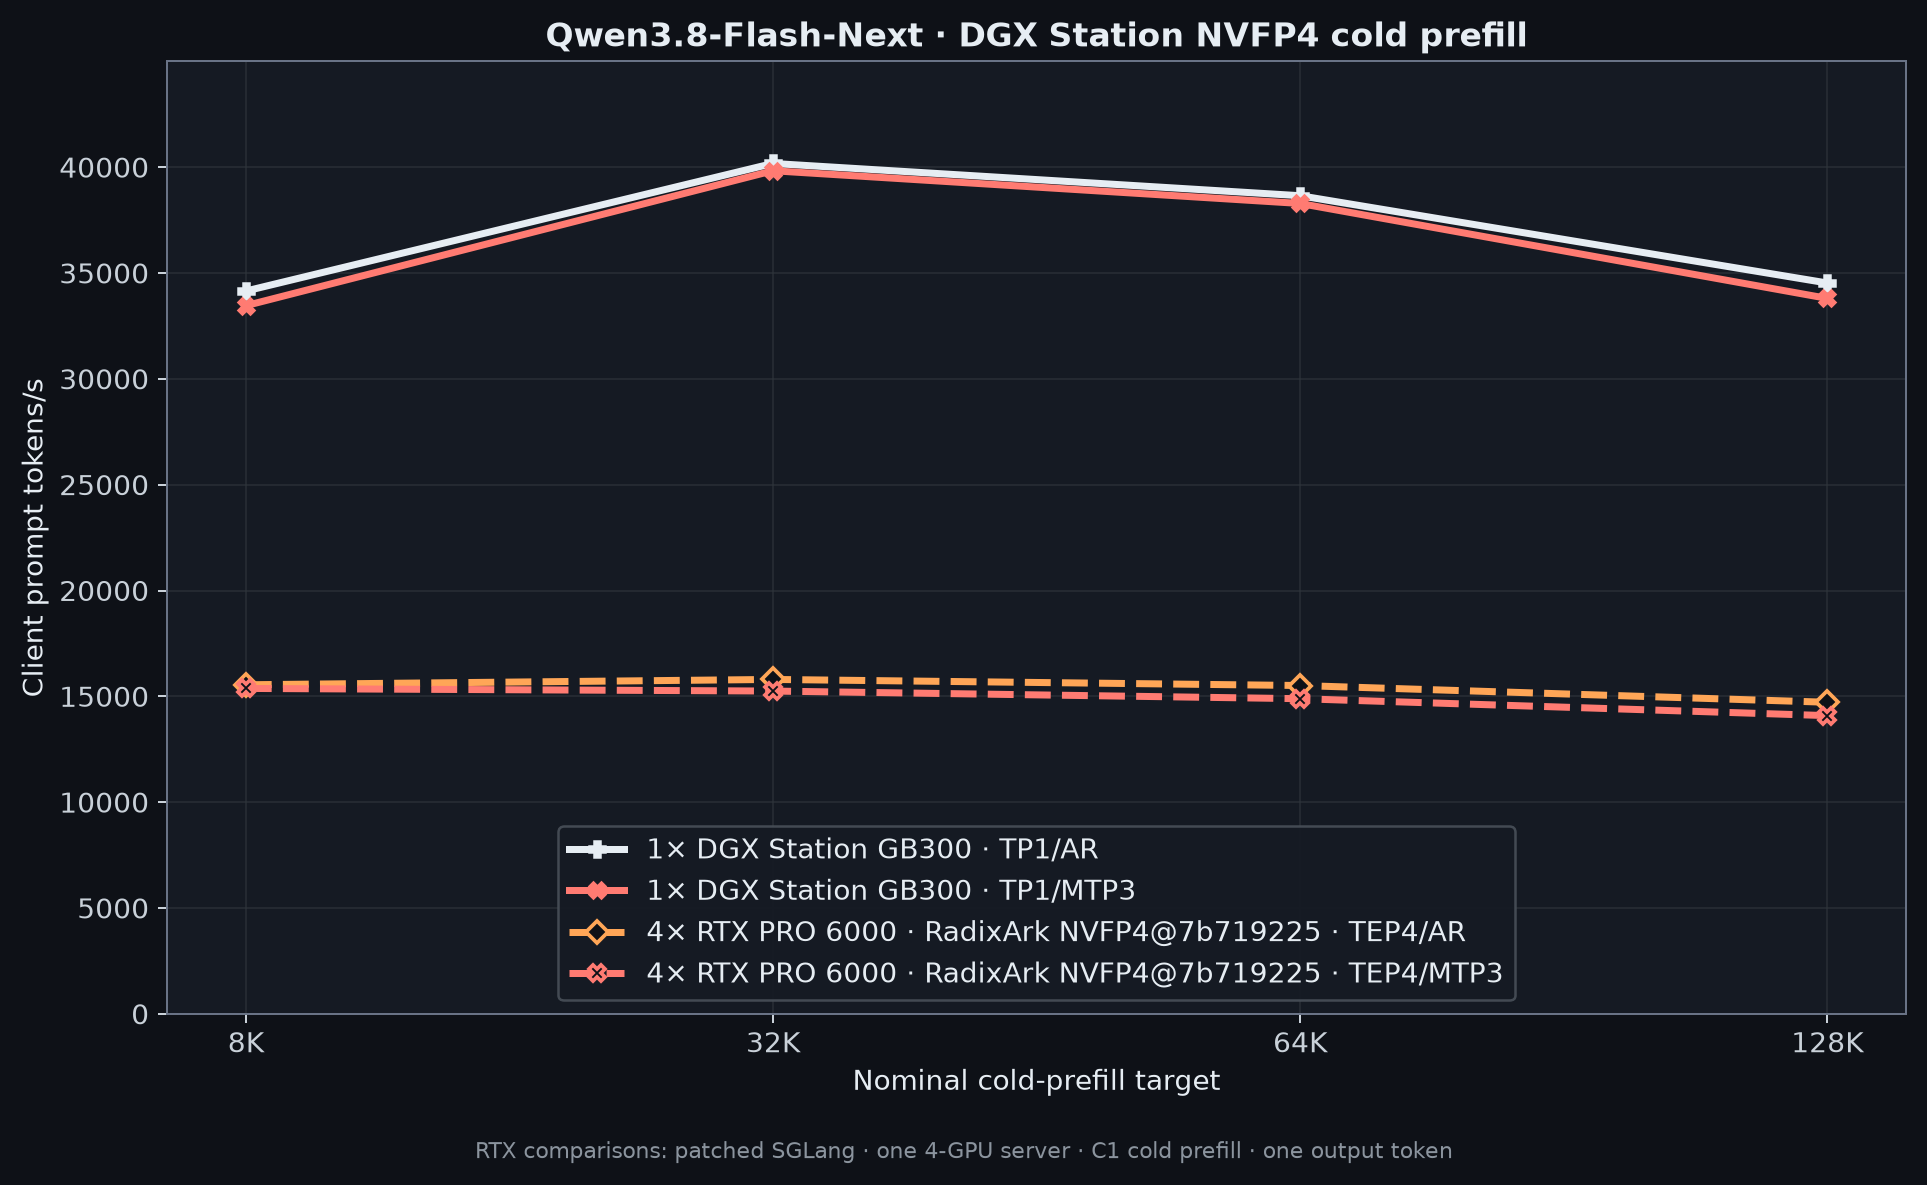
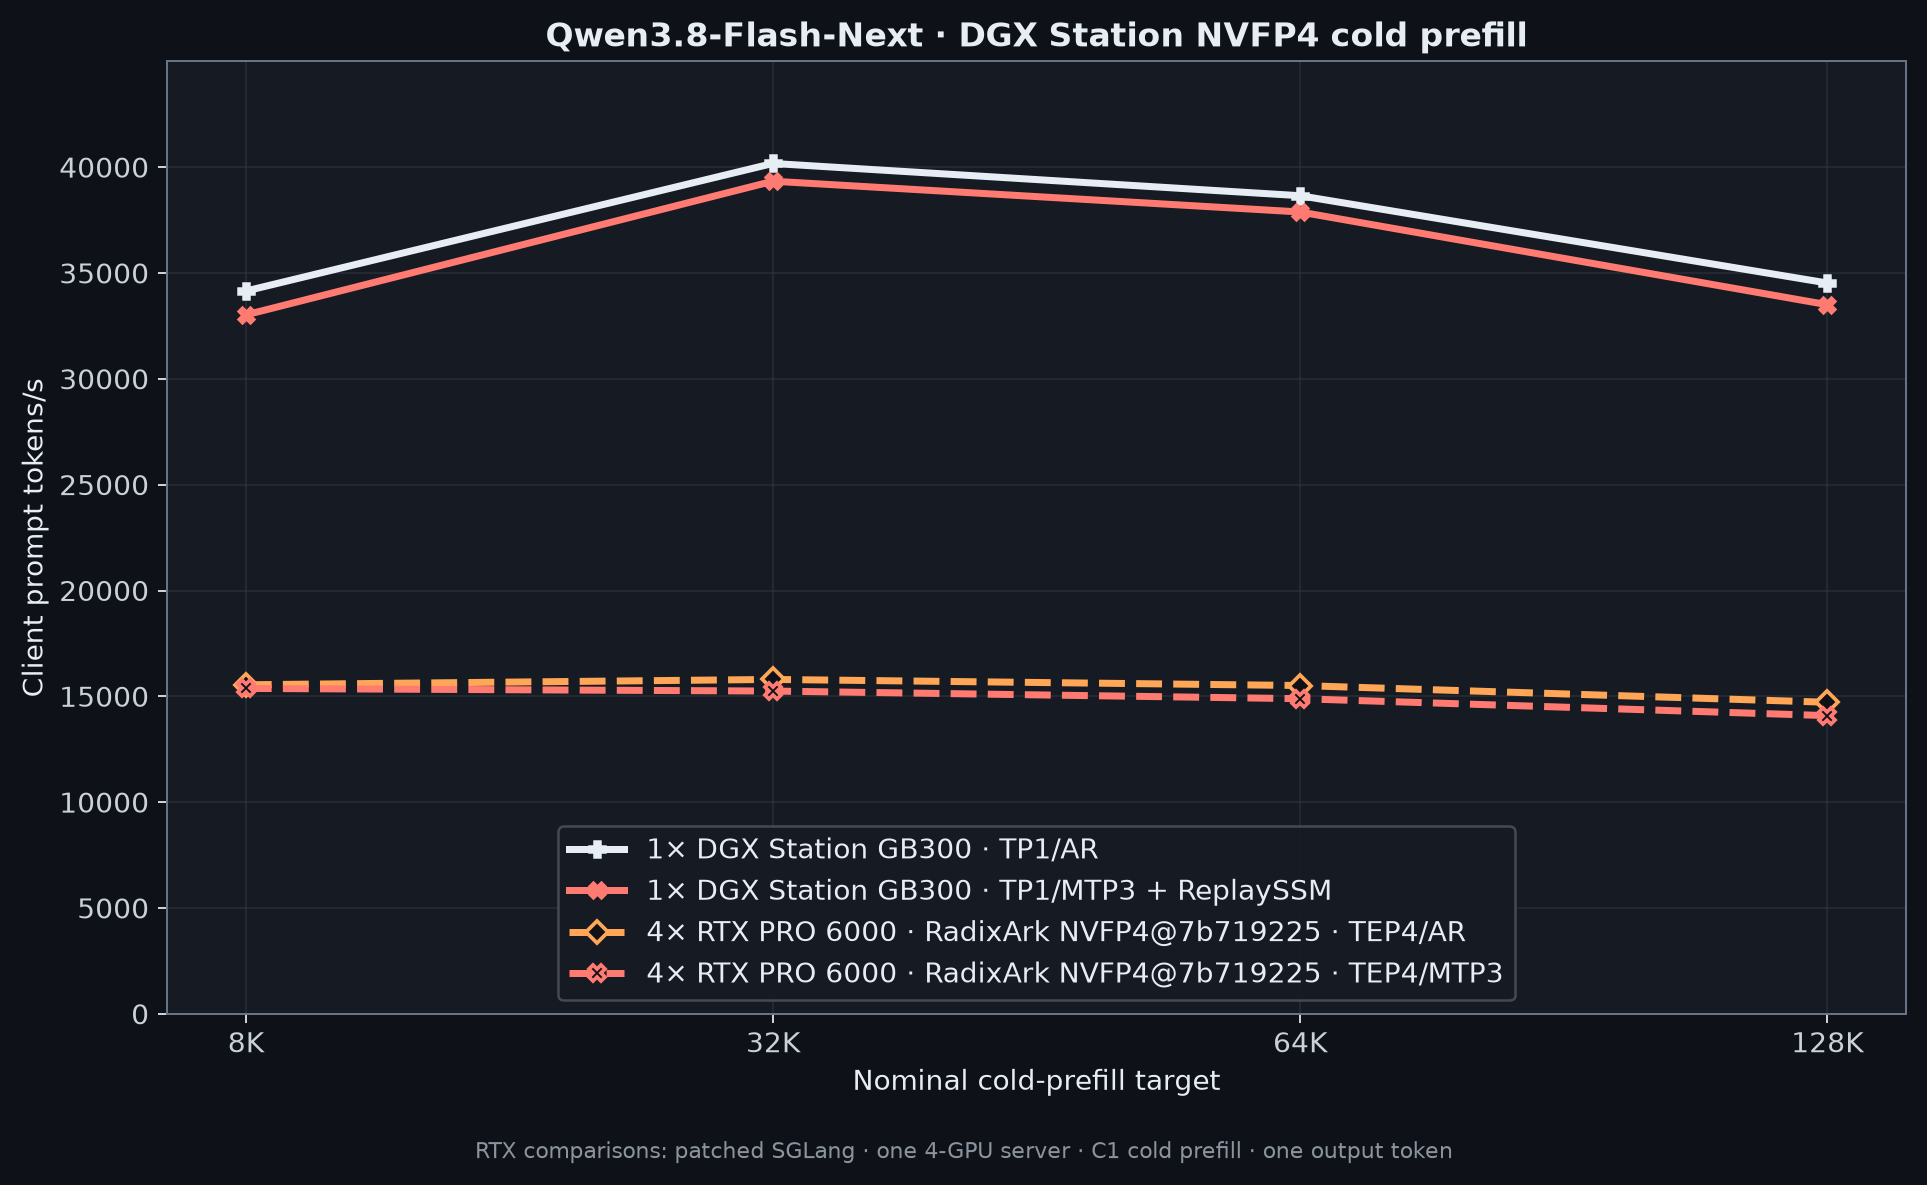
Publish Qwen ReplaySSM headline results

diff --git a/qwen3.8-flash-next/tests/test_section_contract.py b/qwen3.8-flash-next/tests/test_section_contract.py
@@ -419,7 +419,8 @@ class SectionContractTests(unittest.TestCase):
             for row in prefill_rows
         }
         self.assertIn("local-inference-lab/Qwen3.8-Flash-Next-NVFP4-4p89", section)
-        self.assertIn("TP1/AR and TP1/MTP3 each use one\nStation", section)
+        self.assertIn("Each row is one serving engine on one Station", section)
+        self.assertIn("ReplaySSM is enabled\nfor the MTP3 row", section)
         self.assertNotIn("TP2/", section)
         self.assertNotIn("TEP2/", section)
         self.assertIn("comparison points, not DGX\nStation", section)
@@ -438,7 +439,7 @@ class SectionContractTests(unittest.TestCase):
         dgx_rows = csv_rows("dgx-overlays.csv")
         headline_profile_labels = {
             "NVFP4 TP1/MTP0": "1× DGX Station · TP1/AR",
-            "NVFP4 TP1/MTP3": "1× DGX Station · TP1/MTP3",
+            "NVFP4 TP1/MTP3": "1× DGX Station · TP1/MTP3 + ReplaySSM",
         }
         baseline_profile_labels = {
             "NVFP4 TP2/MTP0": "2× DGX Stations · TP2/AR",
@@ -536,7 +537,8 @@ class SectionContractTests(unittest.TestCase):
         )
         self.assertIn("(qwen3.8-flash-next/)", overview_row)
         self.assertIn(
-            "1× TP1/MTP3: 342.7 tok/s C1; TP1/AR: 4,090.4 C64, 38,653 tok/s 64K prefill",
+            "1× TP1/MTP3 + ReplaySSM: 354.6 tok/s C1, 2,927.8 C64; "
+            "TP1/AR: 4,090.4 C64, 38,653 tok/s 64K prefill",
             overview_row,
         )
         self.assertNotIn("2× DGX", overview_row)
@@ -646,12 +648,14 @@ class SectionContractTests(unittest.TestCase):
             self.assertGreater(float(row["throughput"]), 0)
             self.assertGreater(float(row["ttft_p50_seconds"]), 0)
             self.assertTrue(SHA256.fullmatch(row["source_sha256"]))
-            self.assertEqual(
-                row["notes"],
-                "one_engine_on_one_station"
-                if row["platform_label"] == "DGX Station"
-                else "one_distributed_engine_across_two_stations",
-            )
+            expected_notes = "one_distributed_engine_across_two_stations"
+            if row["platform_label"] == "DGX Station":
+                expected_notes = (
+                    "one_engine_on_one_station_replayssm_spec"
+                    if row["profile"] == "NVFP4 TP1/MTP3"
+                    else "one_engine_on_one_station"
+                )
+            self.assertEqual(row["notes"], expected_notes)
         for row in decode_rows:
             concurrency = int(row["concurrency"])
             target = 5 * concurrency
@@ -724,6 +728,44 @@ class SectionContractTests(unittest.TestCase):
                 65536: Decimal("38653.0"),
                 131072: Decimal("34529.0"),
             },
+        )
+
+        mtp_rows = [
+            row
+            for row in csv_rows("dgx-overlays.csv")
+            if row["profile"] == "NVFP4 TP1/MTP3"
+        ]
+        mtp_decode = {
+            int(row["concurrency"]): Decimal(row["throughput"])
+            for row in mtp_rows
+            if row["metric"] == "decode"
+        }
+        expected_mtp_decode = {
+            1: Decimal("354.55100680351995"),
+            2: Decimal("602.8472406649867"),
+            4: Decimal("897.5868413533404"),
+            8: Decimal("1291.0897979459278"),
+            16: Decimal("1733.1994009335713"),
+            32: Decimal("2403.361533898001"),
+            64: Decimal("2927.8337777855713"),
+        }
+        self.assertEqual(mtp_decode, expected_mtp_decode)
+        self.assertEqual(
+            {
+                int(row["nominal_context_tokens"]): Decimal(row["throughput"])
+                for row in mtp_rows
+                if row["metric"] == "prefill"
+            },
+            {
+                8192: Decimal("33020.0"),
+                32768: Decimal("39338.0"),
+                65536: Decimal("37884.0"),
+                131072: Decimal("33504.0"),
+            },
+        )
+        self.assertEqual(
+            {row["source_id"] for row in mtp_rows},
+            {"qwen38-4p89-tp1-mtp3-replayssm-spec-gemini2-v1"},
         )
 
     def test_attention_tp1_routed_ep2_values_are_supporting_data_only(self) -> None:

diff --git a/qwen3.8-flash-next/data/import-dgx-results.py b/qwen3.8-flash-next/data/import-dgx-results.py
@@ -31,6 +31,9 @@ RUNTIME_IMAGE = "qwen38-4p89-sglang:runtime-v1"
 RUNTIME = f"SGLang ({RUNTIME_IMAGE})"
 BENCH_VERSION = "0.4.29"
 BENCH_COMMIT = "0b4185b5b435e948b199c9077a00b084864aa963"
+REPLAYSSM_EXPERIMENT = "qwen38-4p89-tp1-mtp3-replayssm-spec-ab"
+REPLAYSSM_CONTROL_RUN = "qwen38-4p89-tp1-mtp3-gemini2-v2"
+REPLAYSSM_FLAG = "--enable-linear-replayssm-spec"
 CONCURRENCIES = (1, 2, 4, 8, 16, 32, 64)
 PREFILL_CONTEXTS = (8192, 32768, 65536, 131072)
 
@@ -77,6 +80,7 @@ class ProfileSpec:
     platform_label: str
     notes: str
     topology_requirements: tuple[tuple[str, int], ...] = ()
+    replay_ssm_spec: bool = False
 
 
 PROFILE_SPECS = {
@@ -98,7 +102,8 @@ PROFILE_SPECS = {
         1,
         1,
         "DGX Station",
-        "one_engine_on_one_station",
+        "one_engine_on_one_station_replayssm_spec",
+        replay_ssm_spec=True,
     ),
     "tp2-mtp0": ProfileSpec(
         "NVFP4 TP2/MTP0",
@@ -257,6 +262,40 @@ def validate_manifest(root: Path) -> tuple[str, ProfileSpec]:
             "decode concurrency contract differs")
     require(benchmark.get("input_tokens") == 8192, "decode input contract differs")
     require(benchmark.get("output_tokens") == 1024, "decode output contract differs")
+
+    if spec.replay_ssm_spec:
+        experiment = manifest.get("experiment")
+        require(isinstance(experiment, dict), "ReplaySSM experiment binding is absent")
+        require(experiment.get("name") == REPLAYSSM_EXPERIMENT,
+                "ReplaySSM experiment name differs")
+        require(experiment.get("variant") == "treatment",
+                "ReplaySSM experiment is not the treatment")
+        require(experiment.get("control_run_id") == REPLAYSSM_CONTROL_RUN,
+                "ReplaySSM control run differs")
+        require(experiment.get("sglang_flag_delta") == [REPLAYSSM_FLAG],
+                "ReplaySSM flag delta differs")
+        runtime = manifest.get("runtime")
+        require(isinstance(runtime, dict) and runtime.get("linear_replayssm_spec") is True,
+                "ReplaySSM runtime setting is absent")
+
+        inspect = json.loads(
+            regular_file(
+                root / "runtime/container-inspect.json", "container inspect"
+            ).read_text(encoding="utf-8")
+        )
+        require(isinstance(inspect, list) and len(inspect) == 1,
+                "container inspect must contain one container")
+        container = inspect[0]
+        require(isinstance(container, dict), "container inspect entry is invalid")
+        config = container.get("Config")
+        require(isinstance(config, dict), "container config is absent")
+        command = config.get("Cmd")
+        require(isinstance(command, list) and all(isinstance(arg, str) for arg in command),
+                "container command is absent")
+        require(command.count(REPLAYSSM_FLAG) == 1,
+                "running container did not enable ReplaySSM speculation exactly once")
+        require("--enable-linear-replayssm" not in command,
+                "non-speculative ReplaySSM flag was unexpectedly enabled")
     return profile, spec
 
 

diff --git a/qwen3.8-flash-next/tests/test_import_dgx_results.py b/qwen3.8-flash-next/tests/test_import_dgx_results.py
@@ -43,7 +43,7 @@ def make_result(
 ) -> Path:
     spec = IMPORTER.PROFILE_SPECS[profile]
     root = parent / f"qwen38-4p89-{profile}-test"
-    write_json(root / "run-manifest.json", {
+    manifest = {
         "schema_version": 1,
         "run_id": root.name,
         "profile": profile,
@@ -66,7 +66,26 @@ def make_result(
             "input_tokens": 8192,
             "output_tokens": 1024,
         },
-    })
+    }
+    if spec.replay_ssm_spec:
+        manifest["experiment"] = {
+            "name": IMPORTER.REPLAYSSM_EXPERIMENT,
+            "variant": "treatment",
+            "control_run_id": IMPORTER.REPLAYSSM_CONTROL_RUN,
+            "sglang_flag_delta": [IMPORTER.REPLAYSSM_FLAG],
+        }
+        manifest["runtime"] = {"linear_replayssm_spec": True}
+        write_json(root / "runtime/container-inspect.json", [{
+            "Config": {
+                "Cmd": [
+                    "python3",
+                    "-m",
+                    "sglang.launch_server",
+                    IMPORTER.REPLAYSSM_FLAG,
+                ]
+            }
+        }])
+    write_json(root / "run-manifest.json", manifest)
 
     for concurrency in concurrencies:
         target = 5 * concurrency
@@ -211,6 +230,30 @@ class ImportDgxResultsTests(unittest.TestCase):
         self.assertEqual(profile, "tp1-mtp3")
         self.assertEqual({row["platform_label"] for row in rows}, {"DGX Station"})
         self.assertEqual({row["mtp_tokens"] for row in rows}, {"3"})
+        self.assertEqual(
+            {row["notes"] for row in rows},
+            {"one_engine_on_one_station_replayssm_spec"},
+        )
+
+    def test_tp1_mtp3_requires_replayssm_treatment_provenance(self) -> None:
+        with tempfile.TemporaryDirectory() as directory:
+            root = make_result(Path(directory), "tp1-mtp3")
+            manifest_path = root / "run-manifest.json"
+            manifest = json.loads(manifest_path.read_text())
+            del manifest["experiment"]
+            write_json(manifest_path, manifest)
+            with self.assertRaisesRegex(ValueError, "experiment binding"):
+                IMPORTER.import_result(root, require_complete=True)
+
+    def test_tp1_mtp3_requires_replayssm_in_actual_container_command(self) -> None:
+        with tempfile.TemporaryDirectory() as directory:
+            root = make_result(Path(directory), "tp1-mtp3")
+            inspect_path = root / "runtime/container-inspect.json"
+            inspect = json.loads(inspect_path.read_text())
+            inspect[0]["Config"]["Cmd"].remove(IMPORTER.REPLAYSSM_FLAG)
+            write_json(inspect_path, inspect)
+            with self.assertRaisesRegex(ValueError, "running container"):
+                IMPORTER.import_result(root, require_complete=True)
 
     def test_attention_tp1_routed_ep2_profile_is_supporting_pair_data(self) -> None:
         with tempfile.TemporaryDirectory() as directory:

diff --git a/qwen3.8-flash-next/charts/render-charts.py b/qwen3.8-flash-next/charts/render-charts.py
@@ -45,7 +45,7 @@ DGX_HEADLINE_SERIES = {
         "P",
     ),
     "NVFP4 TP1/MTP3": (
-        "1× DGX Station GB300 · TP1/MTP3",
+        "1× DGX Station GB300 · TP1/MTP3 + ReplaySSM",
         "#FF7B72",
         "-",
         "X",

diff --git a/qwen3.8-flash-next/recipes/README.md b/qwen3.8-flash-next/recipes/README.md
@@ -40,12 +40,54 @@ C1–C64 publication pass; it also requires the launcher's completed cleanup and
 postflight marker.
 
 TP1/AR run `qwen38-4p89-tp1-mtp0-gemini1-v1` used one engine on `gemini1`.
-TP1/MTP3 run `qwen38-4p89-tp1-mtp3-gemini2-v2` used one engine on `gemini2`.
+The TP1/MTP3 headline is
+`qwen38-4p89-tp1-mtp3-replayssm-spec-gemini2-v1`, one engine on `gemini2`.
 Both completed all measurements, cleanup, and postflight checks. Each is
-plotted once; no second-machine curve is inferred or summed. The TP1/MTP3
-runtime limited resident requests to 47 because of Mamba-state capacity. Its
-C64 cell is the measured offered-load result: 2,590.4 tok/s at 45.1 effective
-concurrency and 0.911 queue fraction.
+plotted once; no second-machine curve is inferred or summed.
+
+### TP1/MTP3 ReplaySSM optimization
+
+The headline MTP3 run adds only SGLang's
+`--enable-linear-replayssm-spec` flag to the earlier control run
+`qwen38-4p89-tp1-mtp3-gemini2-v2`. Checkpoint, runtime image, TP1 topology,
+MTP3 settings, FP32 Mamba state, CUDA-graph tiers, memory fraction, and
+benchmark workload are unchanged. The result manifest records the treatment,
+control run ID, and one-flag delta; the importer also checks the actual
+container command for the flag.
+
+The treatment source root is
+`/home/catid/frontier-bench/results/qwen38-4p89-sglang/qwen38-4p89-tp1-mtp3-replayssm-spec-gemini2-v1`.
+Its `run-manifest.json` and `runtime/container-inspect.json` bind the
+experiment and launch command; `../data/dgx-overlays.csv` records the source
+path and SHA-256 of every imported result JSON. The benchmark and launcher
+completion markers, exact-name cleanup, and final idle postflight all passed.
+
+ReplaySSM removed the 20.25 GB speculative intermediate-state allocation and
+used about 0.95 GB of replay ring buffers. The Mamba-state limit rose from 47
+resident requests in the control to 84 in the treatment. At offered C64, the
+treatment sustained 62.5 effective requests with no queueing, compared with
+45.1 effective requests and a 0.911 queue fraction in the control.
+
+Output tok/s for 8,192 input plus 1,024 output tokens:
+
+| C | MTP3 control | MTP3 + ReplaySSM | Change |
+| ---: | ---: | ---: | ---: |
+| 1 | 342.7 | 354.6 | +3.45% |
+| 2 | 577.3 | 602.8 | +4.43% |
+| 4 | 850.4 | 897.6 | +5.55% |
+| 8 | 1,261.1 | 1,291.1 | +2.38% |
+| 16 | 1,733.2 | 1,733.2 | 0.00% |
+| 32 | 2,275.0 | 2,403.4 | +5.64% |
+| 64 | 2,590.4 | 2,927.8 | +13.03% |
+
+Cold-prefill client prompt tok/s:
+
+| Target | MTP3 control | MTP3 + ReplaySSM | Change |
+| ---: | ---: | ---: | ---: |
+| 8K | 33,457 | 33,020 | -1.31% |
+| 32K | 39,832 | 39,338 | -1.24% |
+| 64K | 38,286 | 37,884 | -1.05% |
+| 128K | 33,802 | 33,504 | -0.88% |
 
 ### Initial two-Station optimization baselines
 

diff --git a/README.md b/README.md
@@ -19,7 +19,7 @@ performance tuning, runtime quirks, benchmarking practice, and safe recovery.
 
 | Experiment | Checkpoint / precision | Headline result |
 | --- | --- | --- |
-| [Qwen3.8-Flash-Next](qwen3.8-flash-next/) | local-inference-lab NVFP4-4p89/SGLang on 1× DGX Station GB300; 4× RTX PRO 6000 comparison | 1× TP1/MTP3: 342.7 tok/s C1; TP1/AR: 4,090.4 C64, 38,653 tok/s 64K prefill |
+| [Qwen3.8-Flash-Next](qwen3.8-flash-next/) | local-inference-lab NVFP4-4p89/SGLang on 1× DGX Station GB300; 4× RTX PRO 6000 comparison | 1× TP1/MTP3 + ReplaySSM: 354.6 tok/s C1, 2,927.8 C64; TP1/AR: 4,090.4 C64, 38,653 tok/s 64K prefill |
 | [Qwen3.8-27B](qwen3.8-27b/) | BF16 plus unofficial Huginn FP8 and NVFP4A16 targets; BF16 KV/Mamba state | DFlash2: 265.8 tok/s C1; MTP: 6,348.8 C128. Quant AR C128: FP8 5,494.4 (+8.7% vs BF16), NVFP4A16 3,607.4 (−28.6%) |
 | [Qwen2.5-72B LoRA FSDP training](qwen72b-lora-fsdp/) | BF16 LoRA SFT; FSDP2 over 2× GB300; packed UltraChat 10K at 2,048 tokens | 4,453.19 tokens/s; 29.433 s/optimizer step; global batch 131,072 tokens |
 | [RF-DETR Large training](rfdetr-training/) | BF16 fine-tuning on the 1.17M-image MLPerf OpenImages subset; 2× GB300 DDP | Optimized global-batch-128 epoch: 220.45 images/s and 1:46:52 end to end (2.44× faster than control) |
@@ -41,10 +41,12 @@ performance tuning, runtime quirks, benchmarking practice, and safe recovery.
 
 ![Qwen3.8-Flash-Next cold-prefill throughput](qwen3.8-flash-next/charts/dgx-nvfp4-prefill.png)
 
-Solid curves show one serving engine on one DGX Station. Dashed curves show
-two separate comparison runs on one 4× RTX PRO 6000 server: TEP4/AR and
-TEP4/MTP3, using `RadixArk/Qwen3.8-Flash-Next-NVFP4@7b719225` and patched
-SGLang. No envelope is used.
+Solid curves show one serving engine on one DGX Station; the MTP3 curve uses
+ReplaySSM. Dashed curves show two separate comparison runs on one 4× RTX PRO
+6000 server: TEP4/AR and
+TEP4/MTP3, using
+`RadixArk/Qwen3.8-Flash-Next-NVFP4@7b719225` and patched SGLang.
+No envelope is used.
 
 Each experiment folder contains:
 

diff --git a/qwen3.8-flash-next/data/README.md b/qwen3.8-flash-next/data/README.md
@@ -29,7 +29,9 @@
   C1–C64 and cold-prefill JSONs are present, keeps missing cells absent, and
   replaces the superseded checkpoint rows on first import. `--require-complete`
   is the final publication check and requires the launcher's cleanup/postflight
-  completion marker.
+  completion marker. The TP1/MTP3 importer additionally requires the recorded
+  ReplaySSM treatment metadata and verifies
+  `--enable-linear-replayssm-spec` in the actual container command.
 - `qualification.csv` and `attempts.csv` track the separate local DGX bring-up;
   neither contains accepted performance timing.
 - `external-attempts.csv` retains the two source-reported NVFP4 TP4 startup
@@ -41,7 +43,7 @@ Final 4p89 import:
 ```bash
 python3 data/import-dgx-results.py \
   /home/catid/frontier-bench/results/qwen38-4p89-sglang/qwen38-4p89-tp1-mtp0-gemini1-v1 \
-  /home/catid/frontier-bench/results/qwen38-4p89-sglang/qwen38-4p89-tp1-mtp3-gemini2-v2 \
+  /home/catid/frontier-bench/results/qwen38-4p89-sglang/qwen38-4p89-tp1-mtp3-replayssm-spec-gemini2-v1 \
   /home/catid/frontier-bench/results/qwen38-4p89-sglang/qwen38-4p89-tp2-mtp0-v11 \
   /home/catid/frontier-bench/results/qwen38-4p89-sglang/qwen38-4p89-tp2-mtp3-v1 \
   /home/catid/frontier-bench/results/qwen38-4p89-sglang/qwen38-4p89-tep2-mtp0-v1 \

diff --git a/qwen3.8-flash-next/README.md b/qwen3.8-flash-next/README.md
@@ -7,13 +7,13 @@ model, not Qwen3.8-27B.
 
 The DGX headline uses
 [`local-inference-lab/Qwen3.8-Flash-Next-NVFP4-4p89`](https://huggingface.co/local-inference-lab/Qwen3.8-Flash-Next-NVFP4-4p89)
-on SGLang. Each row is one serving engine. TP1/AR and TP1/MTP3 each use one
-Station.
+on SGLang. Each row is one serving engine on one Station. ReplaySSM is enabled
+for the MTP3 row.
 
 | DGX configuration | C1 decode | C16 decode | C64 decode | 64K cold prefill |
 | --- | ---: | ---: | ---: | ---: |
 | 1× DGX Station · TP1/AR | 202.1 tok/s | **1,883.9 tok/s** | **4,090.4 tok/s** | **38,653 tok/s** |
-| 1× DGX Station · TP1/MTP3 | **342.7 tok/s** | 1,733.2 tok/s | 2,590.4 tok/s | 38,286 tok/s |
+| 1× DGX Station · TP1/MTP3 + ReplaySSM | **354.6 tok/s** | 1,733.2 tok/s | 2,927.8 tok/s | 37,884 tok/s |
 
 ![DGX Station and 4× RTX PRO 6000 NVFP4 decode throughput](charts/dgx-nvfp4-decode.png)
 

diff --git a/qwen3.8-flash-next/charts/README.md b/qwen3.8-flash-next/charts/README.md
@@ -1,8 +1,8 @@
 # Qwen3.8-Flash-Next charts
 
-- `dgx-nvfp4-decode.png` shows one-Station TP1/AR and TP1/MTP3 decode through
-  C64, with separate 4× RTX PRO 6000 RadixArk NVFP4 TEP4/AR and TEP4/MTP3
-  comparisons.
+- `dgx-nvfp4-decode.png` shows one-Station TP1/AR and TP1/MTP3 + ReplaySSM
+  decode through C64, with separate 4× RTX PRO 6000 RadixArk NVFP4 TEP4/AR
+  and TEP4/MTP3 comparisons.
 - `dgx-nvfp4-prefill.png` shows the matching cold-prefill comparison.
 - `decode-throughput.png` shows the 4× RTX PRO 6000 reference decode matrix.
 - `cold-prefill-throughput.png` shows the workstation reference prefill matrix.
